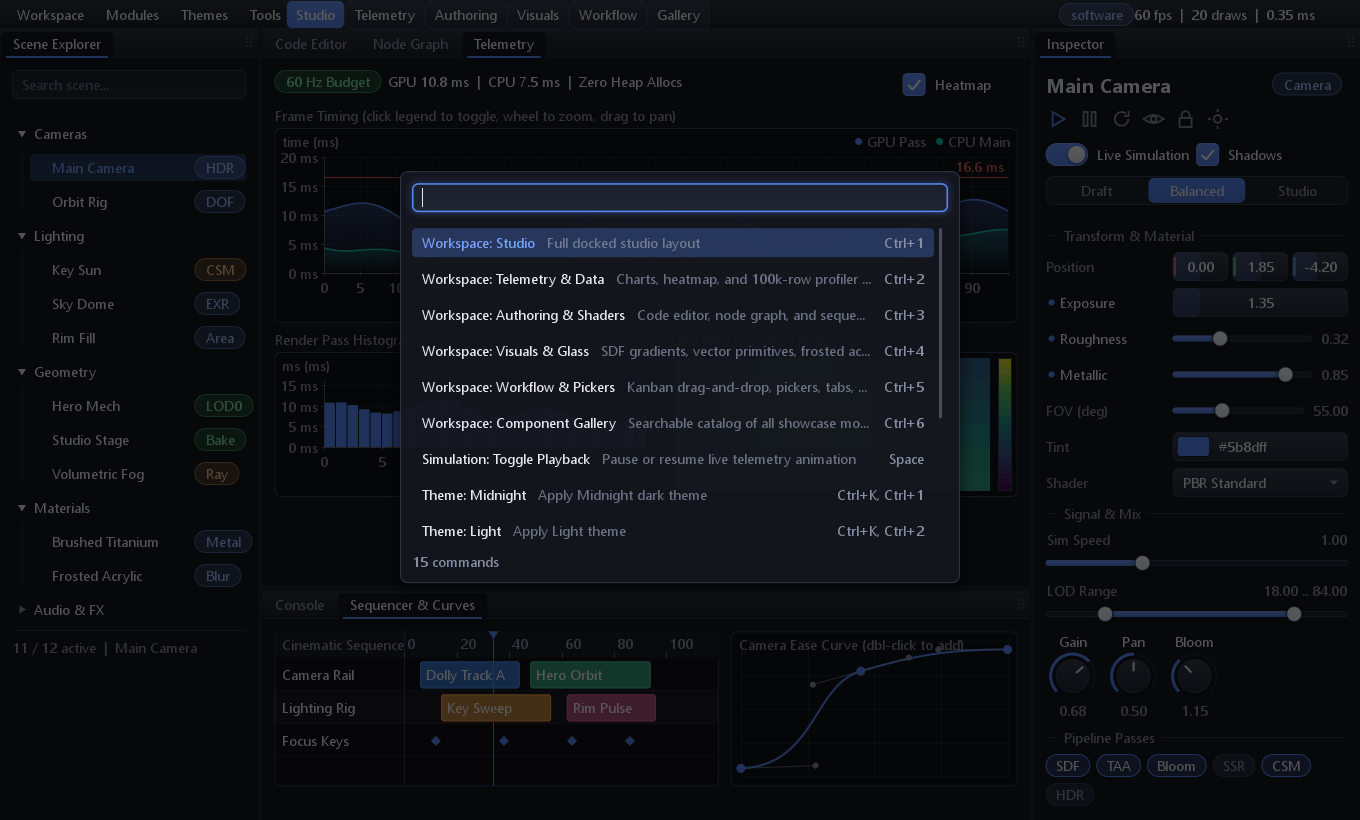
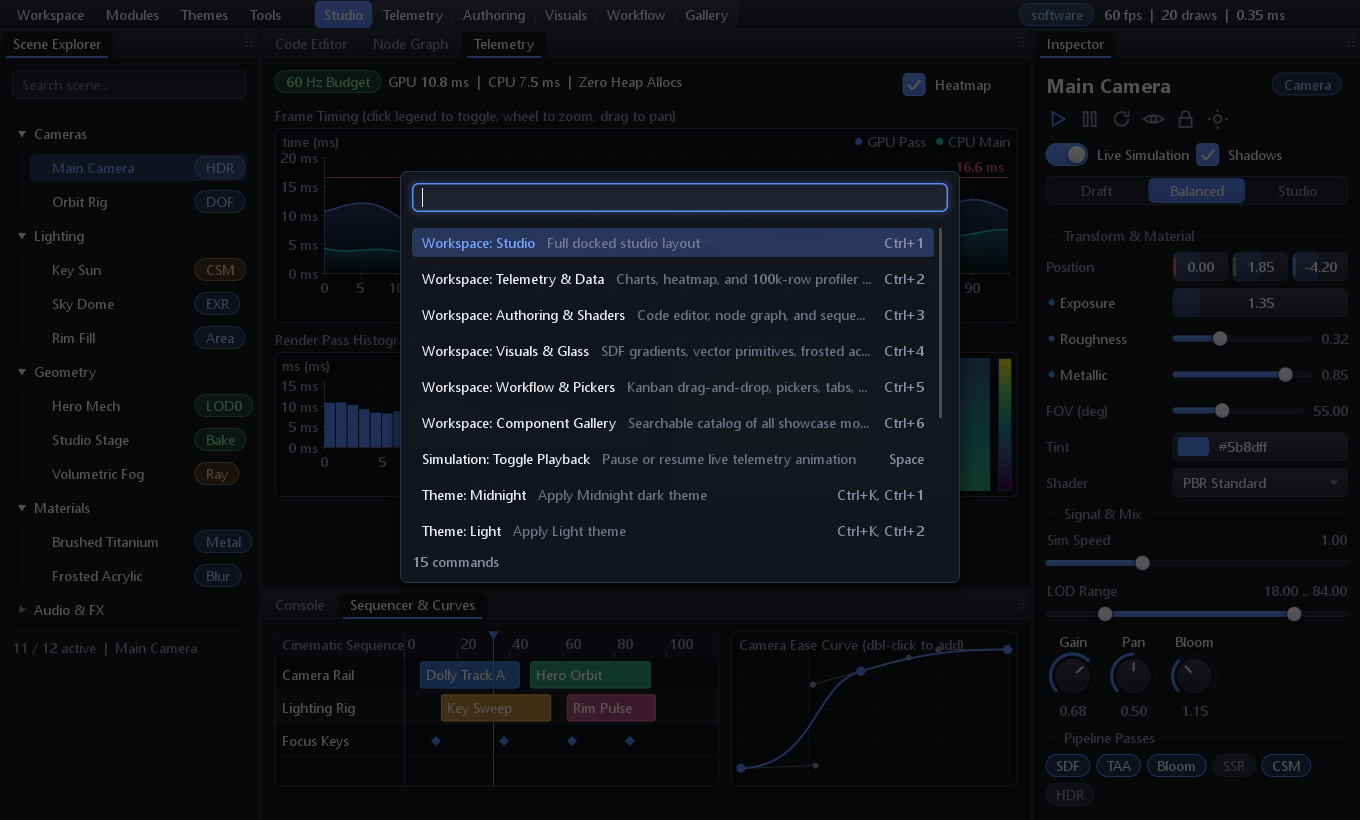
Polish showcase top bar spacing, add C++ syntax highlighting to code editor, and tighten hover animation speed

Changed region(s): [[0.1853, 0.0, 0.525, 0.0305], [0.7412, 0.0, 0.9574, 0.0305]]

diff --git a/showcase/modules/mod_editor.cpp b/showcase/modules/mod_editor.cpp
@@ -1,9 +1,121 @@
 #include "showcase/module.hpp"
 
+#include <array>
+#include <cctype>
 #include <string>
+#include <string_view>
+#include <vector>
 
 namespace strata::showcase {
 namespace {
+
+[[nodiscard]] bool is_ident_start(char c) noexcept
+{
+    const unsigned char u = static_cast<unsigned char>(c);
+    return std::isalpha(u) != 0 || c == '_';
+}
+
+[[nodiscard]] bool is_ident_char(char c) noexcept
+{
+    const unsigned char u = static_cast<unsigned char>(c);
+    return std::isalnum(u) != 0 || c == '_';
+}
+
+[[nodiscard]] bool is_keyword(std::string_view w) noexcept
+{
+    static constexpr std::array<std::string_view, 18> k_kw = {
+        "void", "if", "else", "for", "while", "return", "const", "constexpr", "auto",
+        "bool", "float", "double", "int", "struct", "class", "namespace", "true", "false",
+    };
+    for (std::string_view k : k_kw) {
+        if (w == k) { return true; }
+    }
+    return false;
+}
+
+[[nodiscard]] bool is_type_name(std::string_view w) noexcept
+{
+    static constexpr std::array<std::string_view, 8> k_types = {
+        "strata", "context", "std", "string", "vec2", "color", "f32", "u32",
+    };
+    for (std::string_view t : k_types) {
+        if (w == t) { return true; }
+    }
+    return false;
+}
+
+void highlight_cpp(std::string_view src, font_id mono, std::vector<text_span>& out)
+{
+    out.clear();
+    const color col_comment = color::from_hex(0x6f9e6fff);
+    const color col_preproc = color::from_hex(0xc586c0ff);
+    const color col_string  = color::from_hex(0xe0af68ff);
+    const color col_keyword = color::from_hex(0x7aa2f7ff);
+    const color col_type    = color::from_hex(0x4ec9b0ff);
+    const color col_number  = color::from_hex(0xb5cea8ff);
+    const color col_func    = color::from_hex(0xdcdcaaff);
+
+    const std::size_t n = src.size();
+    std::size_t i = 0;
+    while (i < n) {
+        // Line comment
+        if (i + 1 < n && src[i] == '/' && src[i + 1] == '/') {
+            const std::size_t start = i;
+            while (i < n && src[i] != '\n') { ++i; }
+            out.push_back({static_cast<u32>(start), static_cast<u32>(i), mono, col_comment, text_flags::italic});
+            continue;
+        }
+        // Preprocessor line (#include <...>)
+        if (src[i] == '#') {
+            const std::size_t start = i;
+            ++i;
+            while (i < n && is_ident_char(src[i])) { ++i; }
+            out.push_back({static_cast<u32>(start), static_cast<u32>(i), mono, col_preproc, text_flags::none});
+            while (i < n && src[i] == ' ') { ++i; }
+            if (i < n && (src[i] == '<' || src[i] == '"')) {
+                const char close = (src[i] == '<') ? '>' : '"';
+                const std::size_t hs = i++;
+                while (i < n && src[i] != close && src[i] != '\n') { ++i; }
+                if (i < n && src[i] == close) { ++i; }
+                out.push_back({static_cast<u32>(hs), static_cast<u32>(i), mono, col_string, text_flags::none});
+            }
+            continue;
+        }
+        // String literal
+        if (src[i] == '"') {
+            const std::size_t start = i++;
+            while (i < n && src[i] != '"' && src[i] != '\n') {
+                if (src[i] == '\\' && i + 1 < n) { ++i; }
+                ++i;
+            }
+            if (i < n && src[i] == '"') { ++i; }
+            out.push_back({static_cast<u32>(start), static_cast<u32>(i), mono, col_string, text_flags::none});
+            continue;
+        }
+        // Numeric literal
+        if (std::isdigit(static_cast<unsigned char>(src[i])) != 0) {
+            const std::size_t start = i++;
+            while (i < n && (std::isalnum(static_cast<unsigned char>(src[i])) != 0 || src[i] == '.')) { ++i; }
+            out.push_back({static_cast<u32>(start), static_cast<u32>(i), mono, col_number, text_flags::none});
+            continue;
+        }
+        // Identifier / keyword / type / function call
+        if (is_ident_start(src[i])) {
+            const std::size_t start = i++;
+            while (i < n && is_ident_char(src[i])) { ++i; }
+            const std::string_view word = src.substr(start, i - start);
+            if (is_keyword(word)) {
+                out.push_back({static_cast<u32>(start), static_cast<u32>(i), mono, col_keyword, text_flags::bold});
+            } else if (is_type_name(word)) {
+                out.push_back({static_cast<u32>(start), static_cast<u32>(i), mono, col_type, text_flags::none});
+            } else if (i < n && src[i] == '(') {
+                out.push_back({static_cast<u32>(start), static_cast<u32>(i), mono, col_func, text_flags::none});
+            }
+            continue;
+        }
+        ++i;
+    }
+}
 
 struct editor_module final : demo_module {
     std::string code =
@@ -23,6 +135,9 @@ struct editor_module final : demo_module {
         "        ui.end_property_grid();\n"
         "    }\n"
         "}\n";
+
+    std::vector<text_span> spans;
+    bool                   spans_dirty{true};
 
     std::string api_key{"sk-live-9482a7"};
     std::string build_date{"2026-11-24"};
@@ -47,8 +162,15 @@ struct editor_module final : demo_module {
 
         {
             const font_id mono = env.has_mono() ? env.font_mono : 0;
+            if (spans_dirty) {
+                highlight_cpp(code, mono, spans);
+                spans_dirty = false;
+            }
             auto fscope = ui.with_font(mono);
-            (void)ui.input_code("##studio_code", code, {0.0f, 310.0f});
+            ui.input_spans(spans);
+            if (ui.input_code("##studio_code", code, {0.0f, 310.0f})) {
+                spans_dirty = true;
+            }
         }
 
         ui.separator("Credentials & Masked Inputs");

diff --git a/showcase/app.cpp b/showcase/app.cpp
@@ -116,6 +116,8 @@ void showcase_app::apply_theme(context& ui, int index)
     if (names.empty()) { return; }
     theme_idx_ = std::clamp(index, 0, static_cast<int>(names.size()) - 1);
     (void)themes::by_name(names[static_cast<std::size_t>(theme_idx_)], ui.theme());
+    // Snappy hover/focus transitions so rapid pointer movement across dense trees never leaves lingering trails.
+    ui.theme().anim_speed = 24.0f;
 }
 
 demo_module* showcase_app::find_module(std::string_view id) const noexcept
@@ -290,10 +292,15 @@ void showcase_app::draw_menu_bar(context& ui, f32& out_bar_h)
             }
         }
 
-        // Inline Blender-style workspace quick-switcher pills right in the top bar
-        ui.same_line(280.0f);
+        // Inline workspace quick-switcher pills with a crisp divider separating them from the menus
+        ui.same_line();
+        {
+            const auto sep = ui.custom_item("##ws_div", {22.0f, 18.0f});
+            const f32  mx  = sep.bounds.center().x;
+            ui.draw().line({mx, sep.bounds.min.y + 2.0f}, {mx, sep.bounds.max.y - 2.0f}, ui.theme().border, 1.0f);
+        }
         for (std::size_t i = 0; i < k_workspaces.size(); ++i) {
-            if (i > 0) { ui.same_line(); }
+            ui.same_line();
             const bool active = (active_workspace_ == k_workspaces[i]);
             if (active) {
                 const auto accent_pill = ui.style_overrides({
@@ -309,9 +316,11 @@ void showcase_app::draw_menu_bar(context& ui, f32& out_bar_h)
             }
         }
 
-        // Right-aligned live status pills
-        ui.same_line_right(295.0f);
+        // Right-aligned live status pills with comfortable gap between backend badge and metrics
+        ui.same_line_right(335.0f);
         ui.badge(env_.backend_name, toast_kind::info);
+        ui.same_line();
+        (void)ui.custom_item("##stat_gap", {10.0f, 1.0f});
         ui.same_line();
         ui.textf("{:.0f} fps  |  {} draws  |  {:.2f} ms", env_.fps, ui.stats().draw_calls, env_.ui_ms);
 
